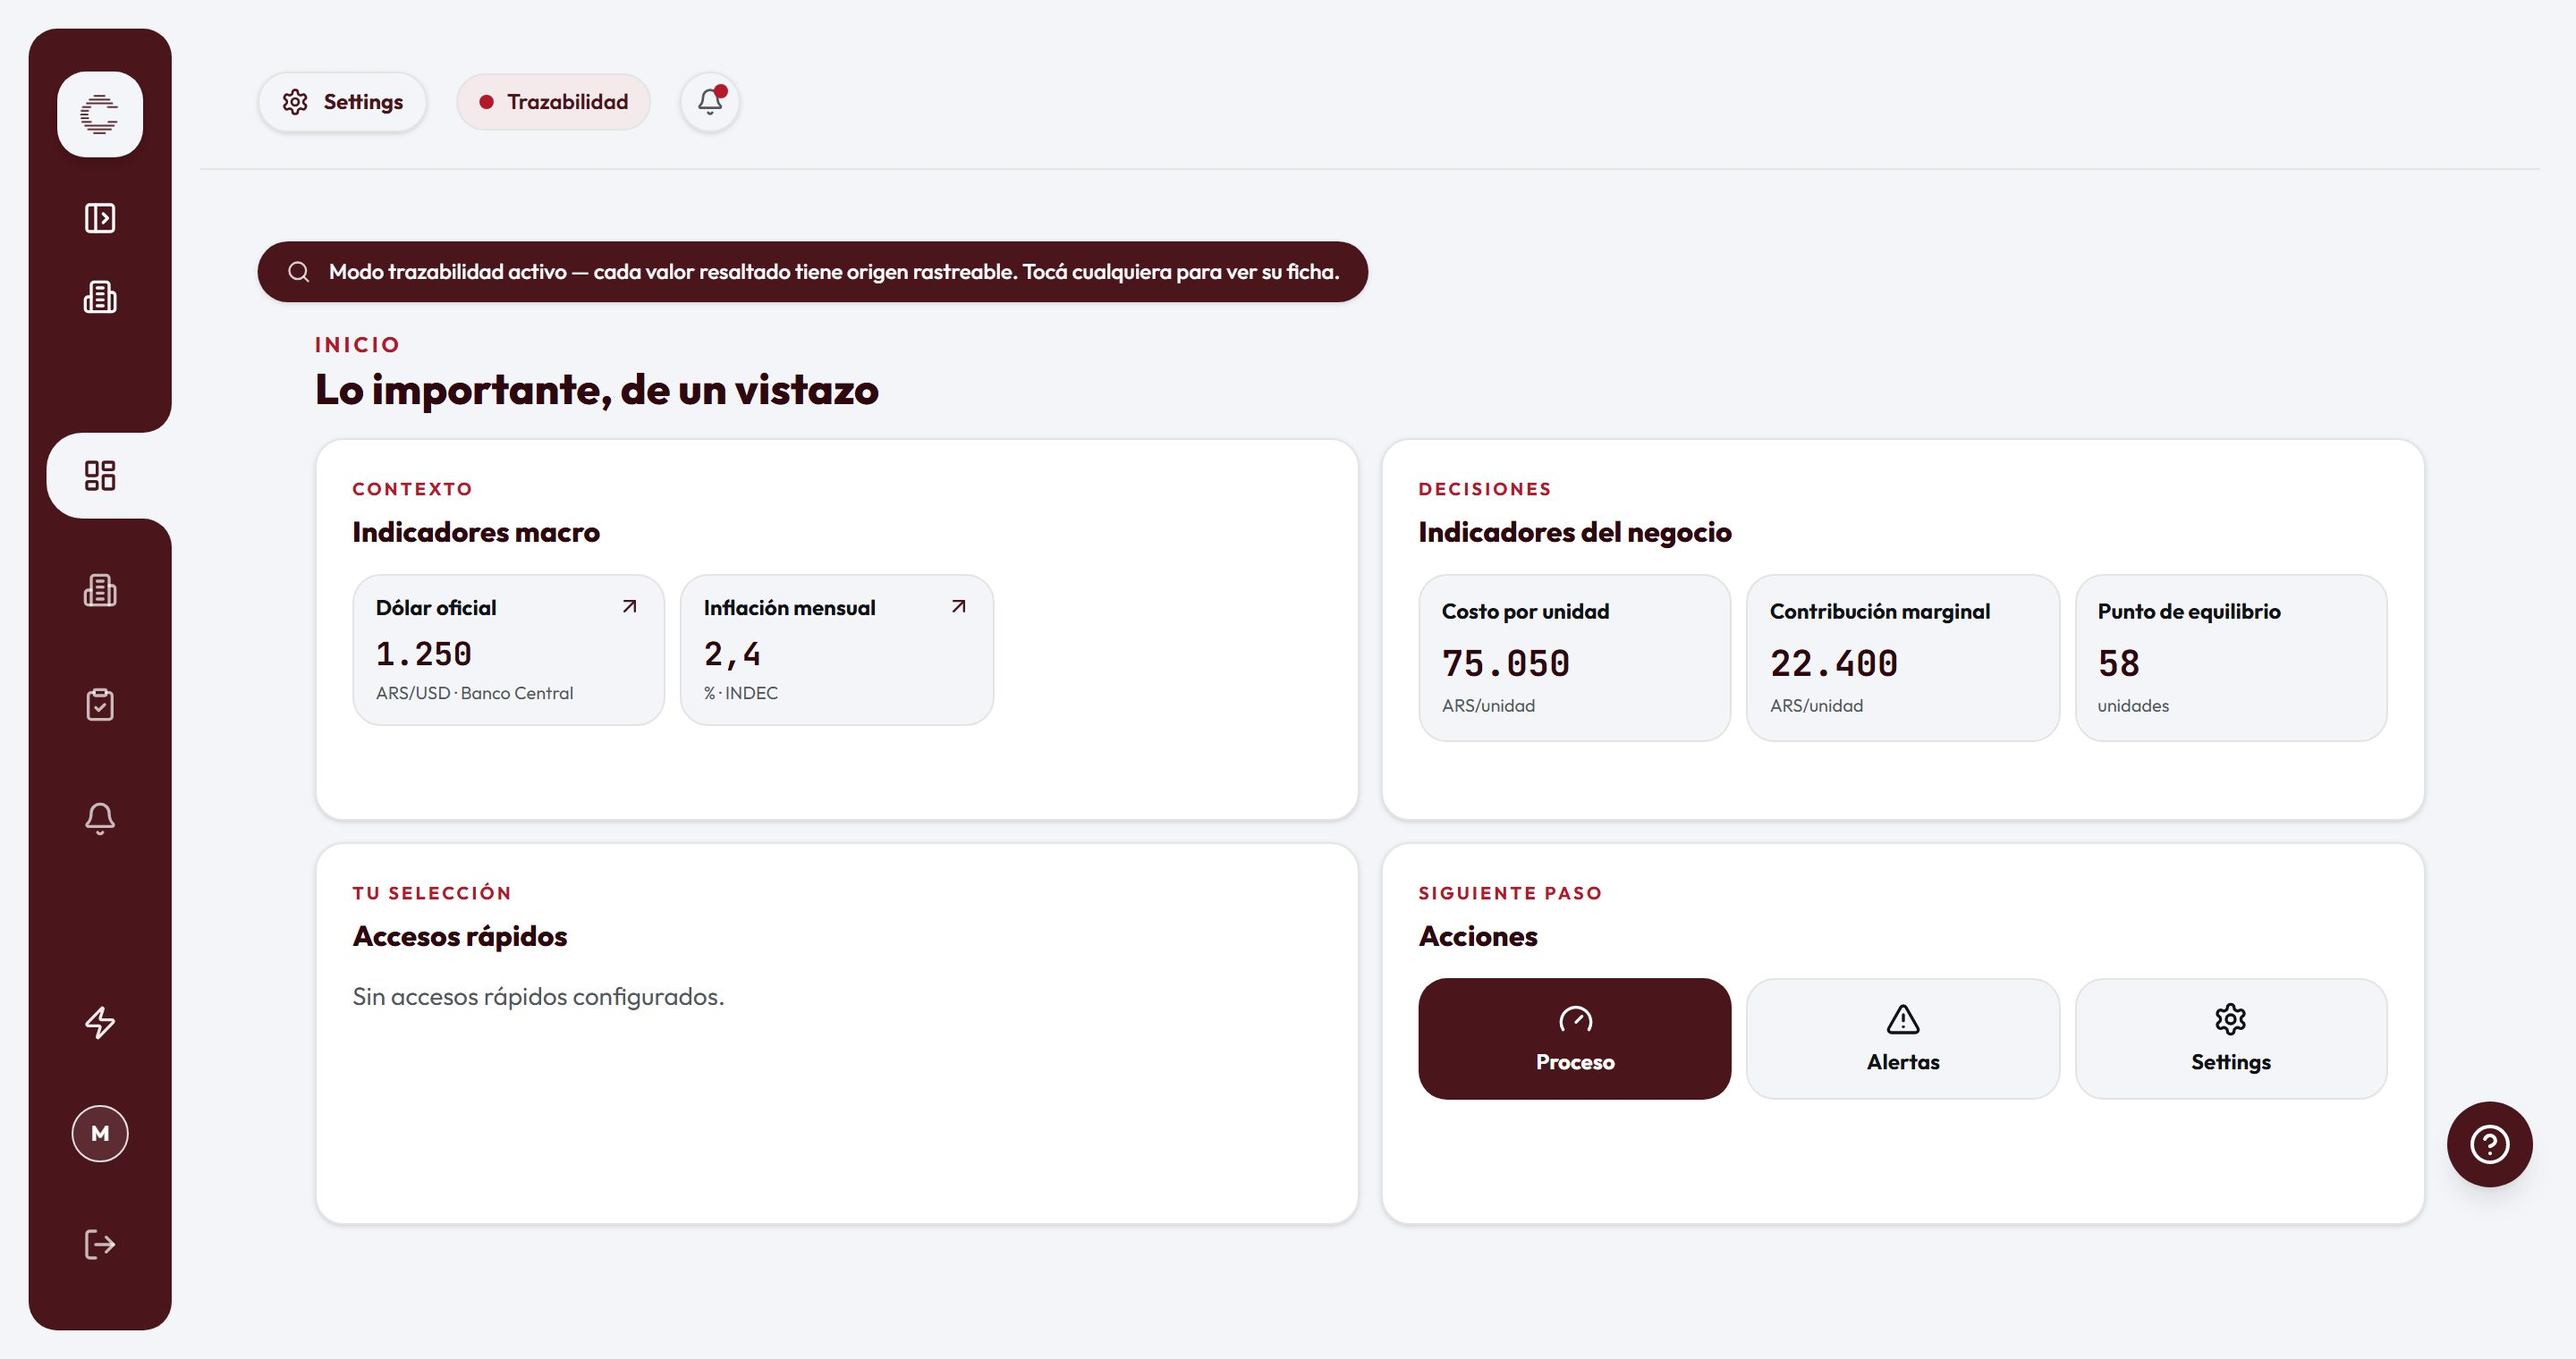
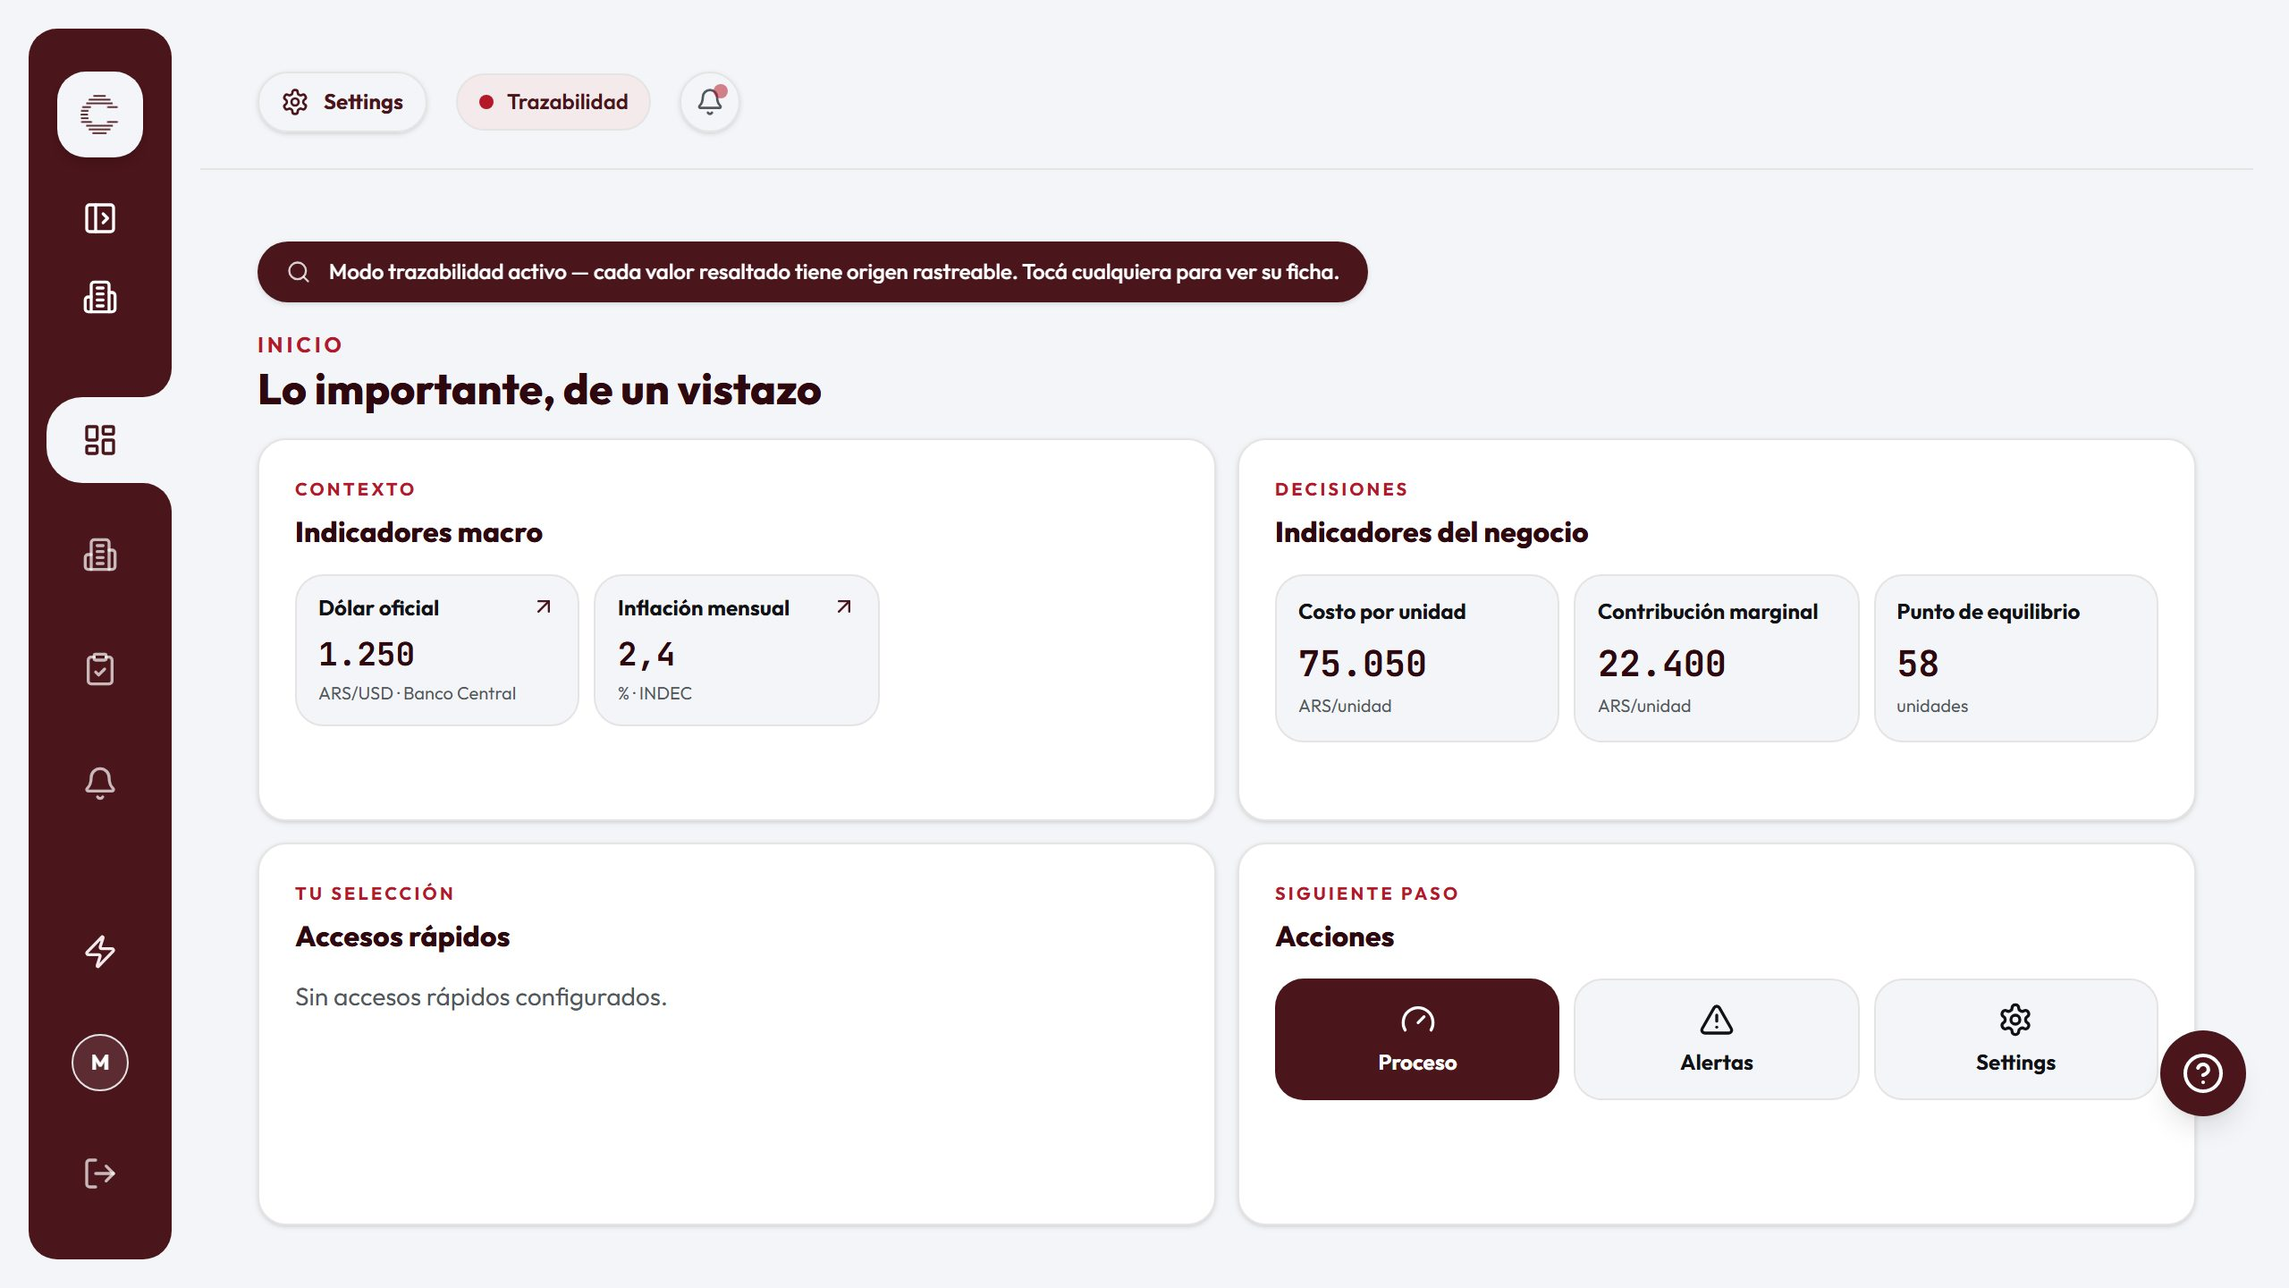
fix(ui): la landing solo dice lo que el producto hace hoy
Auditoría de veracidad de cada afirmación contra el código:
- La separación de datos es por cuenta, no por negocio; y además del
  dueño entran las personas que invita.
- El panel del celular mostraba opciones que no existen fuera del rubro
  avícola; ahora replica el portal real de comprobantes, que se aprueban
  antes de entrar al costo.
- «Todo se descarga en Excel» pasa a «los cálculos se descargan».

Y mejoras de la auditoría de diseño: el hero sube el producto para que
asome antes, suma una línea de confianza junto a la acción y la captura
del tablero se saca a 1280 px para que se lea. El cierre muestra la app
en lugar de repetir el precio de ejemplo por tercera vez.

part of #240

diff --git a/src/features/landing/components/FuncionesSection.tsx b/src/features/landing/components/FuncionesSection.tsx
@@ -6,8 +6,8 @@ import { PanelRemarcadora } from './PanelRemarcadora';
 
 /**
  * Qué hace, en una grilla de paneles con su propia pantalla. Cada panel
- * corresponde a algo que existe hoy en la app: alertas por email, carga desde
- * el celular (panel de campo), trazabilidad y punto de equilibrio.
+ * corresponde a algo que existe hoy en la app: alertas por email, comprobantes
+ * desde el portal del equipo, trazabilidad y punto de equilibrio.
  */
 export function FuncionesSection() {
   return (
@@ -29,14 +29,20 @@ export function FuncionesSection() {
             <AlertaDeMargen />
           </Panel>
 
-          <Panel icono="celular" titulo="Tu equipo carga desde el celular" texto="Consumos, horas y comprobantes con una foto, sin mandarte papelitos.">
+          <Panel
+            icono="celular"
+            titulo="Tu equipo manda los comprobantes"
+            texto="Una foto de la factura o el remito desde el celular. Vos lo aprobás antes de que entre al costo."
+          >
             <div className="rounded-2xl bg-surface p-4">
-              <p className="text-sm font-semibold text-granate-deep">¿Qué querés cargar?</p>
-              <div className="mt-3 grid grid-cols-2 gap-2 text-xs">
-                <span className="rounded-xl bg-surface-alt px-3 py-2.5">Consumo de material</span>
-                <span className="rounded-xl bg-surface-alt px-3 py-2.5">Horas trabajadas</span>
-                <span className="col-span-2 flex items-center gap-2 rounded-xl bg-granate px-3 py-2.5 text-surface">
-                  <Camera className="size-4" aria-hidden="true" /> Foto de un comprobante
+              <ul className="space-y-2.5">
+                <Comprobante nombre="Factura de chapa" elemento="Materia prima" estado="Pendiente" />
+                <Comprobante nombre="Remito de tornillería" elemento="Materia prima" estado="Aprobado" />
+              </ul>
+              <div className="mt-3 flex items-center gap-2 rounded-full border border-line bg-surface-alt py-1.5 pl-4 pr-1.5 text-xs text-ink-soft">
+                <span className="flex-1">Escribí una nota o adjuntá…</span>
+                <span className="flex size-7 items-center justify-center rounded-full bg-granate text-surface">
+                  <Camera className="size-3.5" aria-hidden="true" />
                 </span>
               </div>
             </div>
@@ -138,5 +144,28 @@ function AlertaDeMargen() {
         También te llegó por email
       </p>
     </div>
+  );
+}
+
+/** Un envío del portal del equipo, como lo lista la app: qué es, a qué elemento va y en qué estado está. */
+function Comprobante({ nombre, elemento, estado }: { nombre: string; elemento: string; estado: 'Pendiente' | 'Aprobado' }) {
+  return (
+    <li className="flex items-center gap-3">
+      <span className="flex size-9 shrink-0 items-center justify-center rounded-lg bg-granate-tenue">
+        <Camera className="size-4 text-granate" aria-hidden="true" />
+      </span>
+      <span className="min-w-0 flex-1">
+        <span className="block truncate text-xs font-semibold text-ink">{nombre}</span>
+        <span className="block text-[11px] text-ink-soft">{elemento}</span>
+      </span>
+      <span
+        className={cn(
+          'rounded-full px-2 py-0.5 text-[11px] font-semibold',
+          estado === 'Aprobado' ? 'bg-surface-alt text-ok' : 'bg-granate-tenue text-warn',
+        )}
+      >
+        {estado}
+      </span>
+    </li>
   );
 }

diff --git a/src/features/landing/components/CierreSection.tsx b/src/features/landing/components/CierreSection.tsx
@@ -1,17 +1,18 @@
-import { calcularEjemplo, enPesos } from '../demo-margen';
+import tableroCelular from '@/assets/landing/tablero-celular.jpg';
 import { BotonWhatsApp } from './BotonWhatsApp';
-import { Icono } from './Icono';
+import { Telefono } from './mockups/Dispositivos';
 
-const antes = calcularEjemplo(0);
-const despues = calcularEjemplo(0.1);
-
+/**
+ * El cierre repite la única acción de la página y muestra el producto una vez
+ * más, asomando desde abajo: lo último que se ve es la app, no un número suelto.
+ */
 export function CierreSection() {
   return (
     <section aria-labelledby="titulo-cierre" className="bg-surface px-4 pb-24 sm:px-6 md:pb-32">
-      <div className="panel-granate relative mx-auto max-w-6xl overflow-hidden rounded-[2rem] px-7 py-16 text-surface sm:px-14 md:py-20">
+      <div className="panel-granate relative mx-auto max-w-6xl overflow-hidden rounded-[2rem] px-7 pt-16 text-surface sm:px-14 md:pt-20">
         <div className="hero-grilla pointer-events-none absolute inset-0" aria-hidden="true" />
-        <div className="relative grid gap-12 md:grid-cols-12 md:items-center">
-          <div className="md:col-span-7">
+        <div className="relative grid gap-12 md:grid-cols-12">
+          <div className="pb-16 md:col-span-7 md:pb-20">
             <h2 id="titulo-cierre" className="text-4xl font-medium leading-tight tracking-[-0.03em] sm:text-5xl">
               ¿Cuándo fue la última vez que remarcaste con números?
             </h2>
@@ -21,18 +22,11 @@ export function CierreSection() {
             </p>
             <div className="mt-9">
               <BotonWhatsApp sobreOscuro />
+              <p className="mt-4 text-sm text-surface/60">Te responde una persona del equipo, sin compromiso.</p>
             </div>
           </div>
           <div className="relative hidden md:col-span-5 md:block" aria-hidden="true">
-            <div className="tarjeta-flotante ml-auto w-72 rotate-3 rounded-2xl bg-surface p-5 text-ink">
-              <div className="flex items-center gap-3">
-                <Icono nombre="etiqueta" className="size-9" />
-                <span className="text-sm text-ink-soft">Estantería metálica</span>
-              </div>
-              <p className="mt-4 text-sm text-ink-soft line-through decoration-action/60">{enPesos(antes.precioDeVenta)}</p>
-              <p className="font-mono text-4xl font-semibold tabular-nums text-granate-deep">{enPesos(despues.precioSugerido)}</p>
-              <p className="mt-3 text-xs text-ink-soft">Precio sugerido tras una suba del 10 % del dólar. Ejemplo.</p>
-            </div>
+            <Telefono src={tableroCelular} alt="" className="absolute -bottom-40 left-1/2 w-60 -translate-x-1/2 rotate-[4deg]" />
           </div>
         </div>
       </div>

diff --git a/src/features/landing/components/HeroSection.tsx b/src/features/landing/components/HeroSection.tsx
@@ -20,21 +20,21 @@ export function HeroSection() {
       </div>
       <div className="hero-halo pointer-events-none absolute left-1/2 top-[-12rem] h-[40rem] w-[70rem] -translate-x-1/2" aria-hidden="true" />
 
-      <div className="relative mx-auto max-w-7xl px-4 pt-32 text-center sm:px-6 md:pt-40">
+      <div className="relative mx-auto max-w-7xl px-4 pt-28 text-center sm:px-6 md:pt-32">
         <p className="mx-auto inline-flex items-center gap-2 rounded-full border border-line bg-surface/80 px-4 py-1.5 text-sm text-ink-soft backdrop-blur-md">
           <span className="size-1.5 rounded-full bg-action" aria-hidden="true" />
           Costos y precios para negocios que fabrican
         </p>
-        <h1 className="mx-auto mt-7 max-w-4xl text-5xl font-medium leading-[1.02] tracking-[-0.04em] text-granate-deep sm:text-6xl lg:text-[5.5rem]">
+        <h1 className="mx-auto mt-7 max-w-4xl text-5xl font-medium leading-[1.02] tracking-[-0.04em] text-granate-deep sm:text-6xl lg:text-[4.75rem]">
           Remarcá con números,{' '}
           <br className="hidden sm:block" />
           no a ojo.
         </h1>
-        <p className="mx-auto mt-7 max-w-xl text-lg leading-relaxed text-ink-soft">
+        <p className="mx-auto mt-6 max-w-xl text-lg leading-relaxed text-ink-soft">
           CosteAR calcula lo que te cuesta cada producto y te dice a cuánto venderlo cuando se mueven el
           dólar y la inflación.
         </p>
-        <div className="mt-10 flex flex-col items-center justify-center gap-3 sm:flex-row">
+        <div className="mt-9 flex flex-col items-center justify-center gap-3 sm:flex-row">
           <BotonWhatsApp />
           <a
             href="#funciones"
@@ -45,7 +45,9 @@ export function HeroSection() {
           </a>
         </div>
 
-        <div className="relative mx-auto mt-20 max-w-5xl">
+        <p className="mt-4 text-sm text-ink-soft">Te responde una persona del equipo, sin compromiso.</p>
+
+        <div className="relative mx-auto mt-14 max-w-5xl">
           <VentanaNavegador
             src={tableroEscritorio}
             alt="El tablero de CosteAR en la computadora: dólar, inflación, costo por unidad, contribución y punto de equilibrio"

diff --git a/src/features/landing/components/PreguntasSection.tsx b/src/features/landing/components/PreguntasSection.tsx
@@ -14,7 +14,7 @@ const PREGUNTAS = [
   {
     pregunta: '¿Tengo que dejar mi Excel?',
     respuesta:
-      'No de un día para el otro. Partimos de la planilla que ya usás, y todo lo que calcula CosteAR se puede descargar en Excel cuando quieras.',
+      'No de un día para el otro. Partimos de la planilla que ya usás, y los cálculos de CosteAR se descargan en Excel cuando quieras.',
   },
   {
     pregunta: '¿Sirve para mi rubro?',
@@ -29,7 +29,7 @@ const PREGUNTAS = [
   {
     pregunta: '¿Quién ve mis números?',
     respuesta:
-      'Solo tu cuenta. Cada negocio está separado de los demás en la base de datos, las contraseñas se guardan cifradas y cada cambio queda registrado.',
+      'Solo vos y las personas que invites. Cada cuenta está separada de las demás en la propia base de datos, podés entrar con verificación en dos pasos y las acciones importantes quedan registradas con quién y cuándo.',
   },
 ];
 

diff --git a/src/features/landing/components/MetodoSection.tsx b/src/features/landing/components/MetodoSection.tsx
@@ -13,9 +13,9 @@ const RESULTADOS = [
 ];
 
 const SEGURIDAD = [
-  'Cada negocio separado de los demás en la base de datos',
-  'Contraseñas cifradas y verificación en dos pasos',
-  'Cada cambio registrado con quién y cuándo',
+  'Cada cuenta separada de las demás en la propia base de datos',
+  'Contraseñas protegidas y verificación en dos pasos',
+  'Las acciones importantes quedan registradas con quién y cuándo',
 ];
 
 export function MetodoSection() {
